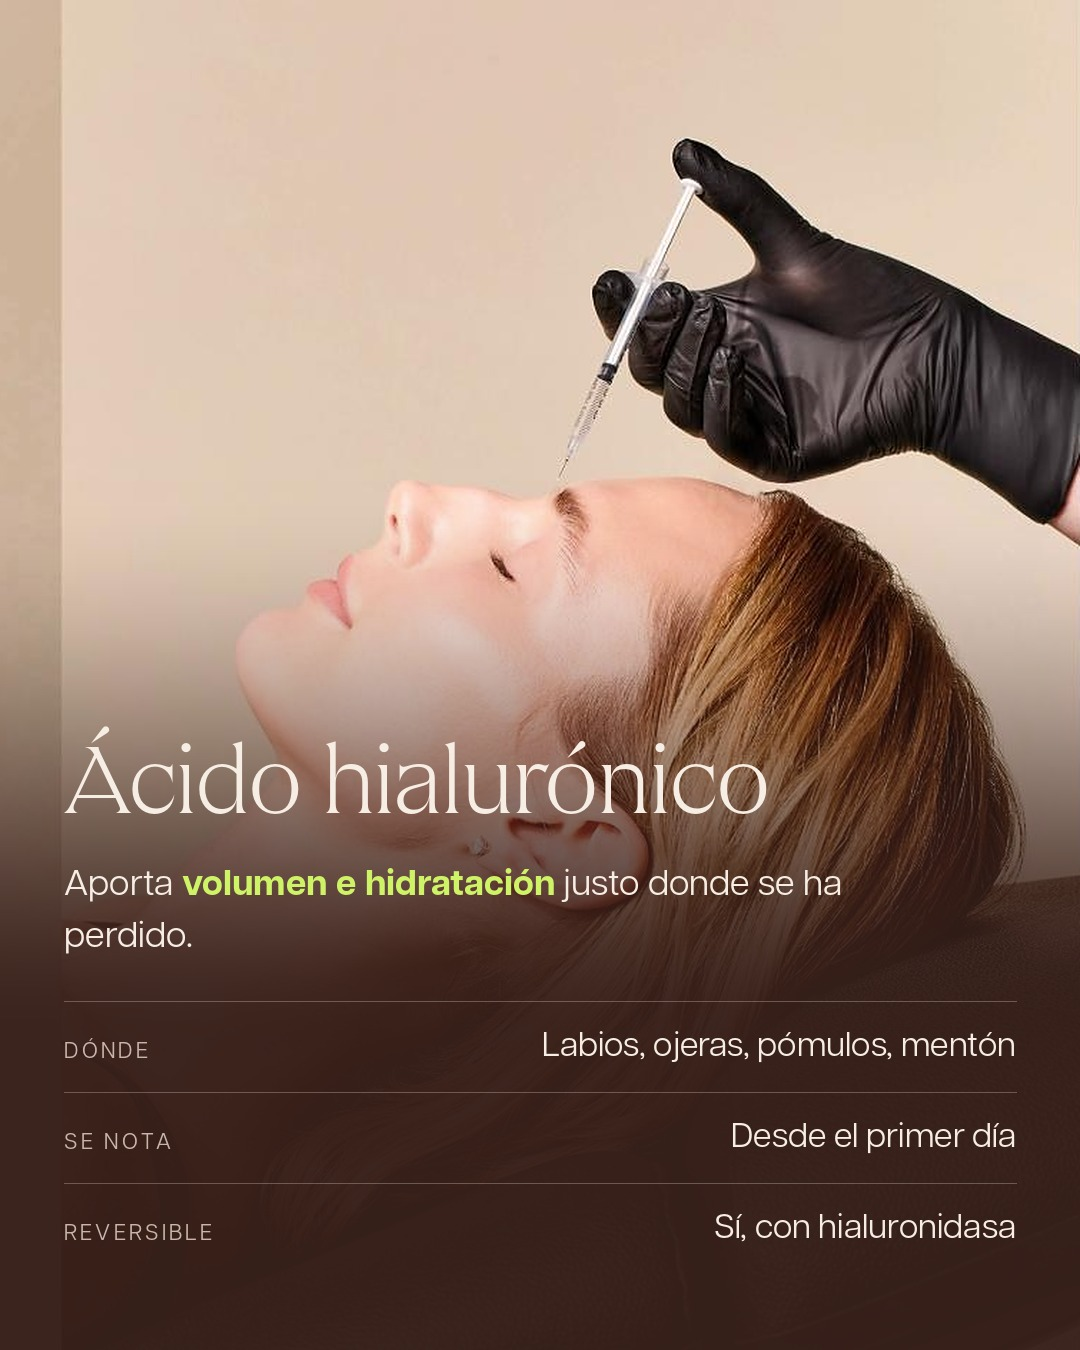
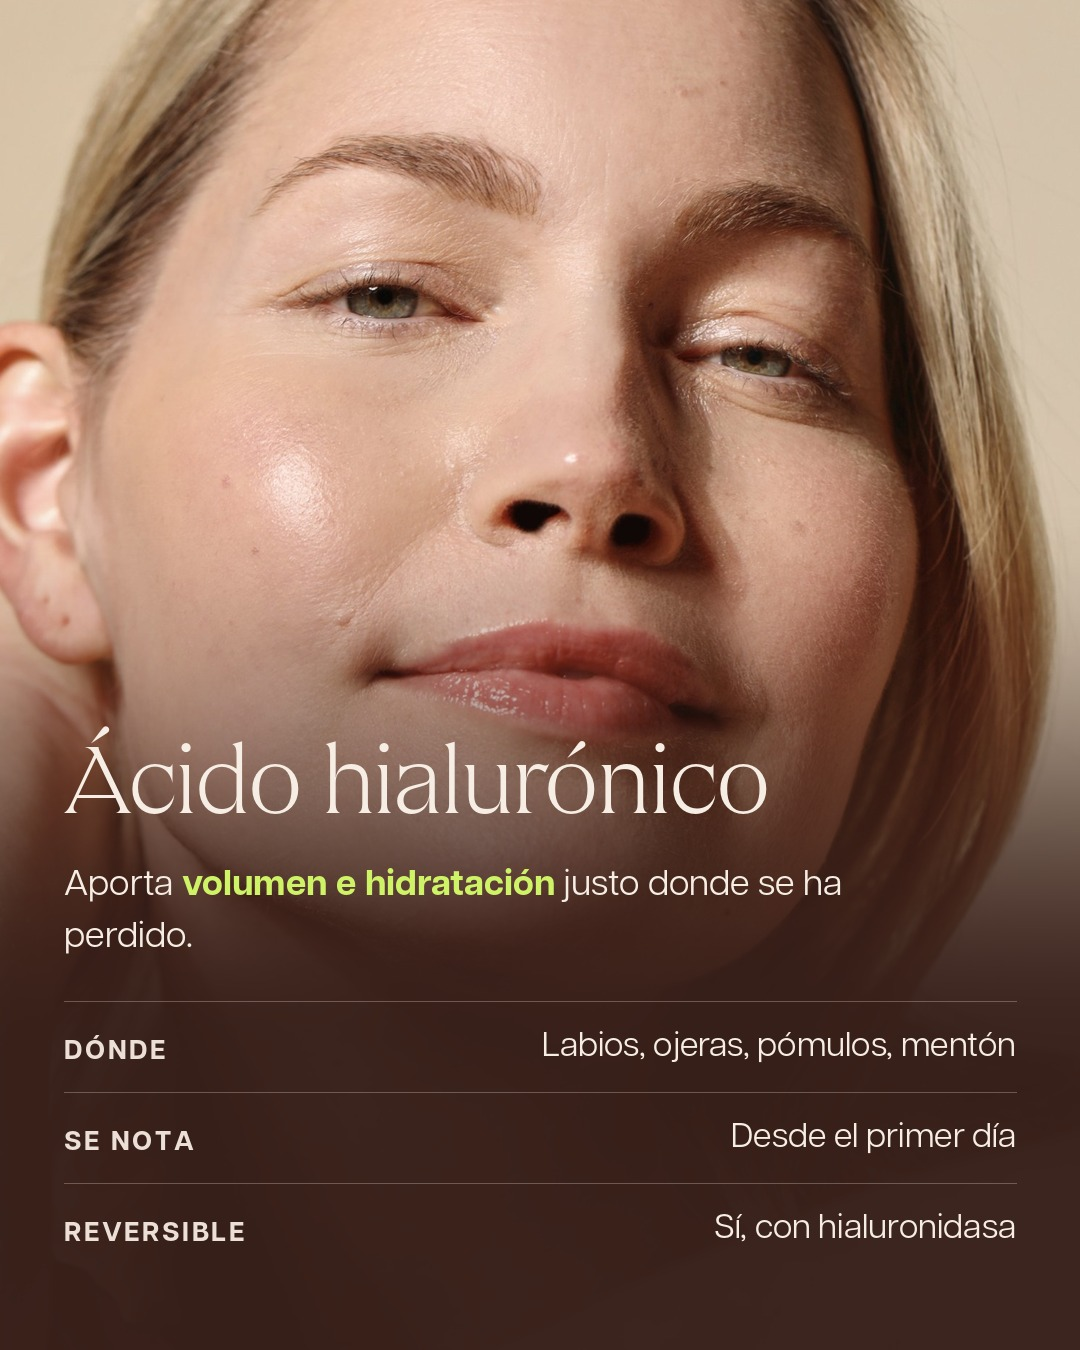
Calendario noviembre: carrusel del 14 con foto nueva en la slide 2 y etiquetas de tabla en negrita y más grandes
Claude-Session: https://claude.ai/code/session_01JZ4qr9msikApA27jwjjPRm

diff --git a/public/pitch/skin-laundry-calendario/noviembre/index.html b/public/pitch/skin-laundry-calendario/noviembre/index.html
@@ -686,7 +686,7 @@ Reserva tu cita desde el enlace de la bio.
 📍 Av. Diagonal 610, Barcelona
 #Neuromoduladores #MitosYVerdades #MedicinaEsteticaBarcelona #SkinLaundryBarcelona` },
 
-{ d:14, formato:"Carrusel", estado:"listo", storyImg:"/pitch/skin-laundry-calendario/noviembre/img/st_14.jpg?v=11120146", cubo:"Med. estética", tema:"Hialurónico", hora:"11:00h", media:"/pitch/skin-laundry-calendario/noviembre/img/d14_hy_1.jpg?v=11121320", slides:["/pitch/skin-laundry-calendario/noviembre/img/d14_hy_1.jpg?v=11121320","/pitch/skin-laundry-calendario/noviembre/img/d14_hy_2.jpg?v=11121735","/pitch/skin-laundry-calendario/noviembre/img/d14_hy_3.jpg?v=11121329","/pitch/skin-laundry-calendario/noviembre/img/d14_hy_4.jpg?v=11121339","/pitch/skin-laundry-calendario/noviembre/img/d14_hy_5.jpg?v=11121342"],
+{ d:14, formato:"Carrusel", estado:"listo", storyImg:"/pitch/skin-laundry-calendario/noviembre/img/st_14.jpg?v=11120146", cubo:"Med. estética", tema:"Hialurónico", hora:"11:00h", media:"/pitch/skin-laundry-calendario/noviembre/img/d14_hy_1.jpg?v=11121320", slides:["/pitch/skin-laundry-calendario/noviembre/img/d14_hy_1.jpg?v=11121320","/pitch/skin-laundry-calendario/noviembre/img/d14_hy_2.jpg?v=11121740","/pitch/skin-laundry-calendario/noviembre/img/d14_hy_3.jpg?v=11121740","/pitch/skin-laundry-calendario/noviembre/img/d14_hy_4.jpg?v=11121740","/pitch/skin-laundry-calendario/noviembre/img/d14_hy_5.jpg?v=11121342"],
   pieza:"Hialurónico vs. bioestimuladores",
   base:"Carta: volumen y calidad de piel", cta:"Consulta previa con nuestros médicos",
   nota:"Fotos de modelo: confirmar que son de Canto o de un shooting con derechos · contenido médico pendiente de revisión por la doctora",
